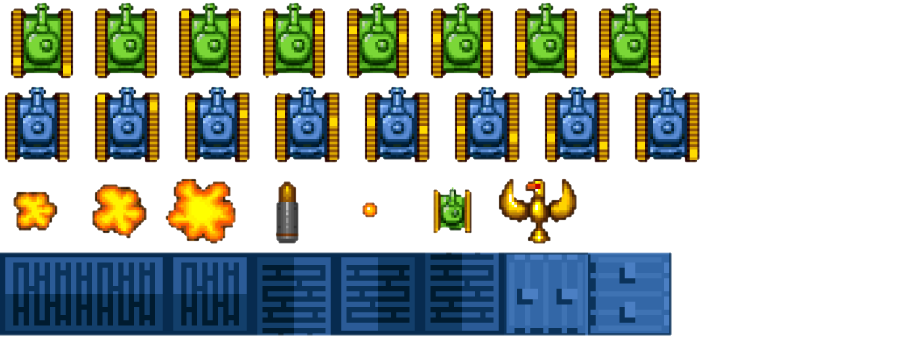
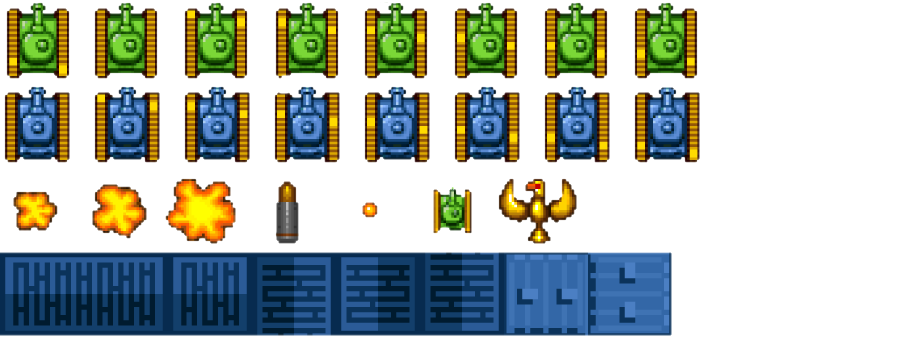
added animation to enemies

Changed region(s): [[0.1863, 0.0, 0.7761, 0.2374], [0.0, 0.0, 0.0931, 0.2374]]

diff --git a/Project_Tank_Battle/Main.cpp b/Project_Tank_Battle/Main.cpp
@@ -7,7 +7,7 @@
 #include <list>
 #include "Entity.h"
 #include "Player.h"
-//#include "Enemy.h"
+#include "Enemy.h"
 //#include "Bullet.h"
 
 using namespace sf;
@@ -26,18 +26,18 @@ using namespace std;
 //	}
 //}
 //
-//void update_enemies(list<Enemy*> &enemies, list<Enemy*>::iterator enemy_it, float& time)
-//{
-//	for (enemy_it = enemies.begin(); enemy_it != enemies.end();)
-//	{
-//		(*enemy_it)->update(time);
-//		if ((*enemy_it)->life == false)
-//		{
-//			enemy_it = enemies.erase(enemy_it);
-//		}
-//		else enemy_it++;
-//	}
-//}
+void update_enemies(list<Enemy*> &enemies, list<Enemy*>::iterator enemy_it, float& time)
+{
+	for (enemy_it = enemies.begin(); enemy_it != enemies.end();)
+	{
+		(*enemy_it)->update(time);
+		if ((*enemy_it)->life == false)
+		{
+			enemy_it = enemies.erase(enemy_it);
+		}
+		else enemy_it++;
+	}
+}
 //
 //void another_check(list<Enemy*>  &enemies, list<Enemy*>::iterator enemy_it, list<Bullet*> &bullets, Image &bulletImage, Level &lvl, Player &player)
 //{
@@ -288,20 +288,37 @@ void exec_v3()
 	Image heroImage;
 	heroImage.loadFromFile("images/tanks.png");
 
+	Image enemyImage;
+	enemyImage.loadFromFile("images/tanks.png");
+
 	Texture player_texture;
 	player_texture.loadFromFile("images/tanks.png");
-	AnimationManager anim;
-	anim.create("up", player_texture, 0, 85, 75, 82, 8, 0.005, 90, 0);
-	anim.create("down", player_texture, 0, 85, 75, 82, 8, 0.005, 90, 180);
-	anim.create("left", player_texture, 0, 85, 75, 82, 8, 0.005, 90, -90);
-	anim.create("right", player_texture, 0, 85, 75, 82, 8, 0.005, 90, 90);
+	AnimationManager playerAnim;
+	playerAnim.create("up", player_texture, 0, 85, 75, 82, 8, 0.005, 90, 0);
+	playerAnim.create("down", player_texture, 0, 85, 75, 82, 8, 0.005, 90, 180);
+	playerAnim.create("left", player_texture, 0, 85, 75, 82, 8, 0.005, 90, -90);
+	playerAnim.create("right", player_texture, 0, 85, 75, 82, 8, 0.005, 90, 90);
 	//anim.loadFromXML("images/playerAnim.xml", player_texture);
 	//Player player(anim, "Player", lvl, playerObject.rect.left, playerObject.rect.top, 75, 82, 1);
-	Player player(heroImage, anim, "Player", lvl, playerObject.rect.left, playerObject.rect.top, 75, 82, 1);
+	Player player(heroImage, playerAnim, "Player", lvl, playerObject.rect.left, playerObject.rect.top, 75, 82, 1);
 
+	Texture enemy_texture;
+	enemy_texture.loadFromFile("images/tanks.png");
+	AnimationManager enemyAnim;
+	enemyAnim.create("enemy_up", enemy_texture, 0, 1, 75, 82, 8, 0.005, 90, 0);
+	enemyAnim.create("enemy_down", enemy_texture, 0, 1, 75, 82, 8, 0.005, 90, 180);
+	enemyAnim.create("enemy_left", enemy_texture, 0, 1, 75, 82, 8, 0.005, 90, -90);
+	enemyAnim.create("enemy_right", enemy_texture, 0, 1, 75, 82, 8, 0.005, 90, 90);
 	
 
-	//vector<Object> enemiesObjects = lvl.GetObjects("Enemy");
+	vector<Object> enemiesObjects = lvl.GetObjects("Enemy");
+	list<Enemy*> enemies;
+	list<Enemy*>::iterator enemy_it;
+
+	for (int i = 0; i < enemiesObjects.size(); i++)
+	{
+		enemies.push_back(new Enemy(enemyImage, enemyAnim, "Enemy", lvl, enemiesObjects[i].rect.left, enemiesObjects[i].rect.top, 71, 80, 1));
+	}
 
 	int Dir = 0;
 	
@@ -336,7 +353,7 @@ void exec_v3()
 		time = time / 800;
 
 		player.update(time);
-
+		update_enemies(enemies, enemy_it, time);
 
 
 		window.setView(view);
@@ -344,8 +361,16 @@ void exec_v3()
 		lvl.Draw(window);
 
 
-		window.draw(player.sprite);
+		//window.draw(player.sprite);
 		player.draw(window);
+		for (enemy_it = enemies.begin(); enemy_it != enemies.end(); enemy_it++)
+		{
+			(*enemy_it)->draw(window);
+		}
+		/*for (enemy_it = enemies.begin(); enemy_it != enemies.end(); enemy_it++)
+		{
+			window.draw((*enemy_it)->sprite);
+		}*/
 		ostringstream playerHealthString, playerXString, playerYString;
 		playerHealthString << player.health;
 		playerYString << player.y;

diff --git a/Project_Tank_Battle/Animation.h b/Project_Tank_Battle/Animation.h
@@ -70,7 +70,6 @@ public:
 
 	void create(std::string name, Texture& texture, int x, int y, int w, int h, int count, float speed, int step = 0, int angle = 0, bool Loop = true)
 	{
-		
 		Animation a;
 		a.speed = speed;
 		a.loop = Loop;
@@ -80,7 +79,7 @@ public:
 		a.sprite.setTextureRect(IntRect(0, 85, w, h));
 		a.sprite.setOrigin(w / 2.f, h / 2.f);
 		a.sprite.setRotation(angle);
-		a.sprite.setPosition(x + w / 2, y + h / 2);
+		//a.sprite.setPosition(350, 150);
 		std::cout << angle << std::endl;
 		sf::Vector2f position = a.sprite.getPosition();
 		std::cout << "Coordinates of sprite: " <<  position.x << " " << position.y << "\n";

diff --git a/Project_Tank_Battle/Entity.h b/Project_Tank_Battle/Entity.h
@@ -42,15 +42,15 @@ public:
 		isMove = false;
 		//dirr = Dir;
 		isShoot = true;
-		texture.loadFromImage(image);
+		//texture.loadFromImage(image);
 		anim = A;
-		sprite.setTexture(texture);
-		sprite.setOrigin(w / 2, h / 2);
+		/*sprite.setTexture(texture);
+		sprite.setOrigin(w / 2, h / 2);*/
 	}
 	
 	void draw(RenderWindow& window)
 	{
-		anim.draw(window, x, y + h);
+		anim.draw(window, x + w / 2, y + h / 2);
 	}
 
 	FloatRect getRect() {
